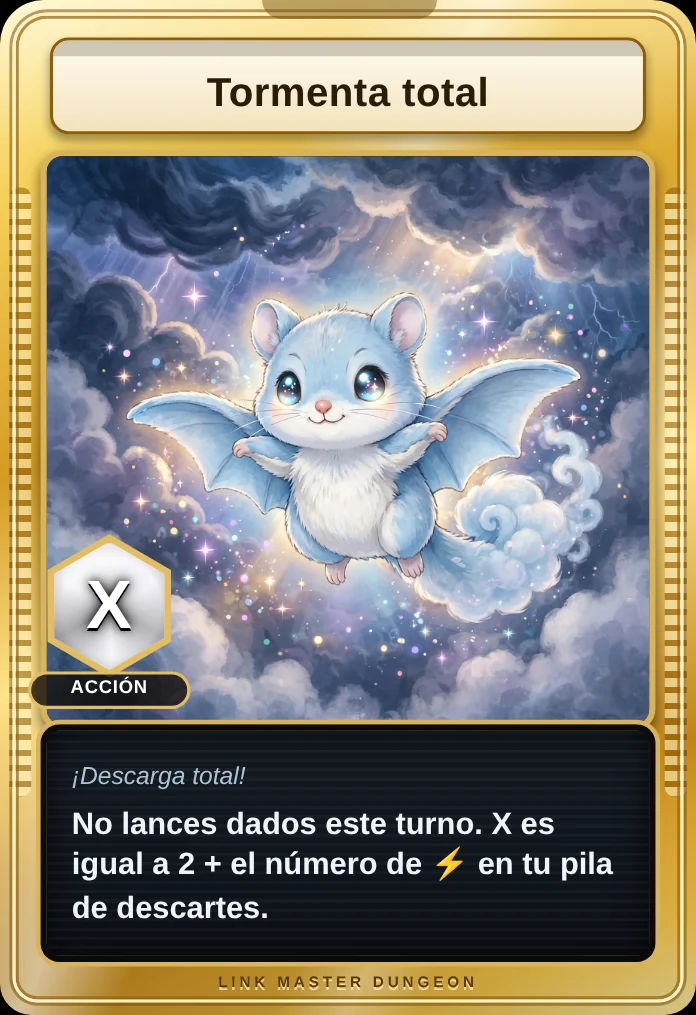
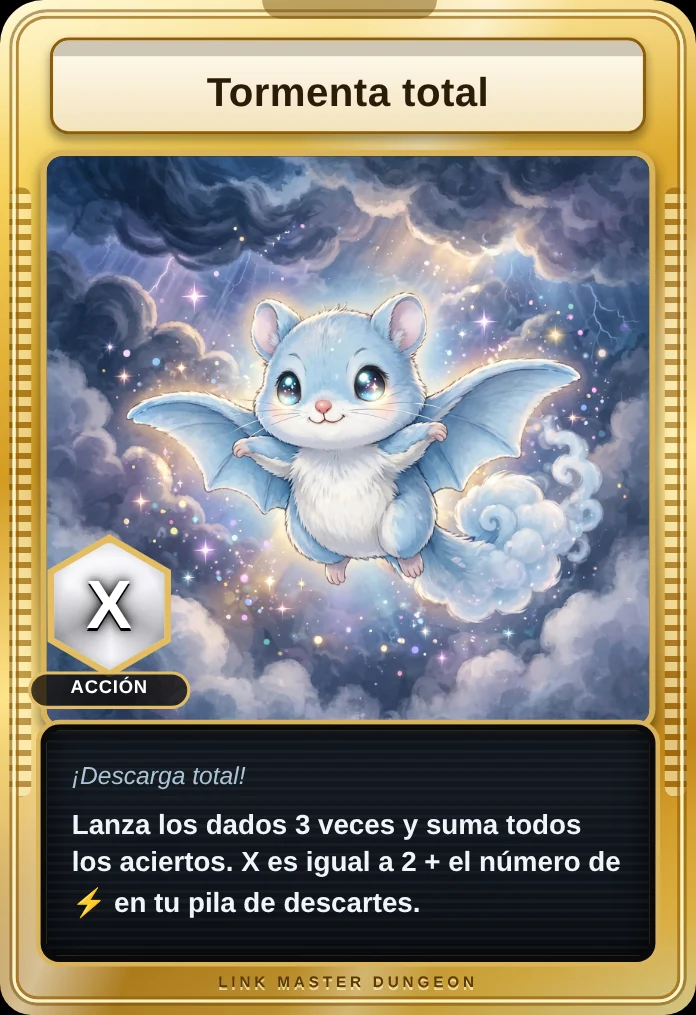
Tormenta total: lanza los dados 3 veces y suma todos los aciertos
Claude-Session: https://claude.ai/code/session_01SGPUyGANHi7UMmwxJVo2zu

Changed region(s): [[0.0905, 0.7941, 0.9052, 0.9163]]

diff --git a/index.html b/index.html
@@ -1828,7 +1828,7 @@ const p10=()=>'m10'; /* efecto exclusivo del personaje 1 */
 const p17=()=>'m17'; /* efecto exclusivo del personaje 1 */
 const swd=x=>((getFI()[+x.slice(1)-1]||'00')[0]==='1'); /* ¿la carta lleva icono de espada? */
 const nSw=()=>S.hand.filter(x=>x!==B.act&&!B.as.includes(x)&&swd(x)).length; /* espadas que siguen en tu mano */
-const noDice=a=>a==='m03'||a==='l04'||a==='l20'||a==='p08'||a==='p20';
+const noDice=a=>a==='m03'||a==='l04'||a==='l20'||a==='p08';
 const baseV=()=>{const a=B.act;if(!a)return 0;let v=MC[a][1];
   if(a==='l20')v=B.v20===undefined?7:B.v20;
   if(a==='l08')v+=nSw();
@@ -2342,6 +2342,8 @@ async function cine(color,nd,SP){
         return showSkip()};
       rolls=1;if(await l11())skips++;else await tally();
       await wait(400);
+      /* p20 Tormenta total: se lanzan los dados 3 veces y todos los aciertos se suman */
+      if(act==='p20')for(let k=0;k<2;k++){await doRoll();await rrDo();rolls++;if(await l11())skips++;else await tally();await wait(400)}
       /* l18: contra un OBSTÁCULO, una tirada extra gratis cuyos aciertos se suman */
       if(act==='l18'&&TY[c.id]==='O'&&await (SP?cmWait('l18').then(m=>!!(m&&m.go)):askC('l18: ¿volver a lanzar los dados una vez más, gratis? Los nuevos aciertos se suman.','Volver a lanzar','No').then(g=>{cmSend({t:'l18',go:g?1:0});return g}))){
         await doRoll();await rrDo();
